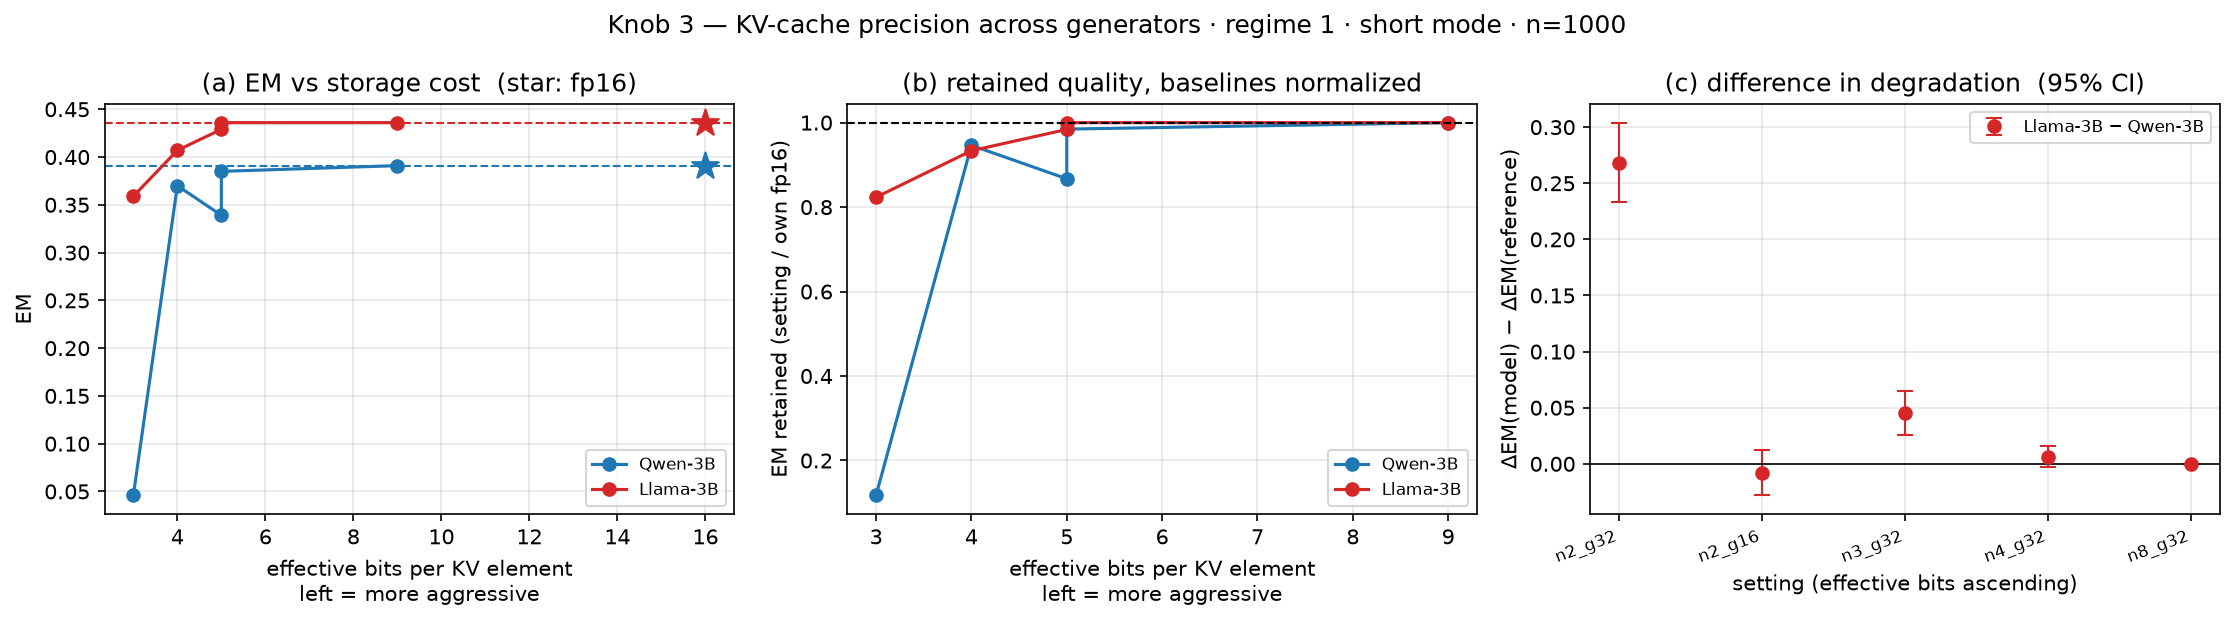
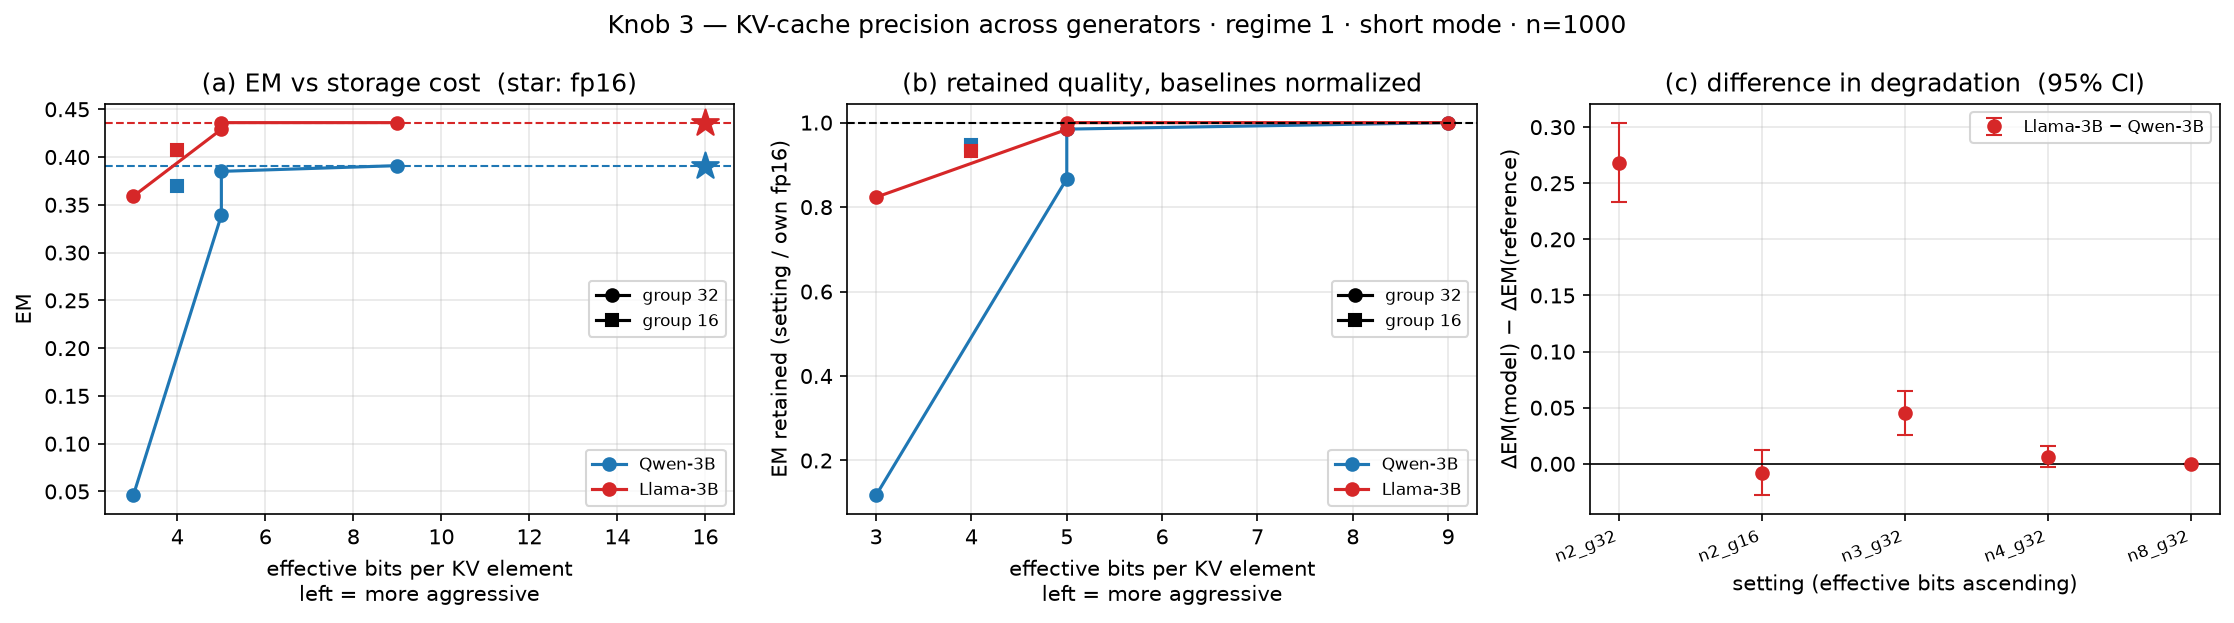
Updated plots for llama knob 3 and 4

diff --git a/scripts/plot_cross_model_gen.py b/scripts/plot_cross_model_gen.py
@@ -118,7 +118,10 @@ def describe(knob, setting, spec3):
                 "compression": float(r["compression"]), "label": kv_label(setting)}
     if knob == 4:
         d = parse_evict(setting)
-        return None if d is None else {**d, "label": f"{d['policy_label']} r{d['keep_ratio']:.2f}"}
+        if d is None:
+            return None
+        variant = " (no RoPE shift)" if d["naive"] else ""
+        return {**d, "label": f"{d['policy_label']} r{d['keep_ratio']:.2f}{variant}"}
     d = parse_topk(setting)
     return None if d is None else {**d, "label": f"k={d['k']}"}
 
@@ -501,12 +504,22 @@ def fig_cross3(models, cross, path):
     fig, ax = plt.subplots(1, 3, figsize=(15, 4.2))
     for tag, m in models.items():
         col, t = COLOUR[tag], m["tables"][3]
-        t = t[t["setting"].isin(cross[f"{tag}_setting"])].sort_values("effective_bits")
+        t = t[t["setting"].isin(cross[f"{tag}_setting"])]
         b = m["stats"]["baseline"]["em"]
-        ax[0].plot(t["effective_bits"], t["em"], "-o", ms=6, color=col, label=SHORT[tag])
+        first = True
+        for g, d in sorted(t.groupby("q_group_size"), reverse=True):
+            # One line across group sizes crosses the G16 point between the G32
+            # chain's points and draws a dip that is an artefact of the x-tie
+            # (n3_g32 and n4_g32 both sit at 5.00 effective bits), not data.
+            d = d.sort_values(["effective_bits", "nbits"])
+            mk = "o" if int(g) == 32 else "s"
+            ax[0].plot(d["effective_bits"], d["em"], "-", marker=mk, ms=6, color=col,
+                       label=SHORT[tag] if first else None)
+            ax[1].plot(d["effective_bits"], d["em"] / b, "-", marker=mk, ms=6, color=col,
+                       label=SHORT[tag] if first else None)
+            first = False
         ax[0].axhline(b, ls="--", c=col, lw=1)
         ax[0].scatter([16], [b], marker="*", s=180, color=col, zorder=5)
-        ax[1].plot(t["effective_bits"], t["em"] / b, "-o", ms=6, color=col, label=SHORT[tag])
     ax[0].set_xlabel("effective bits per KV element\nleft = more aggressive")
     ax[0].set_ylabel("EM"); ax[0].set_title("(a) EM vs storage cost  (star: fp16)")
     ax[1].axhline(1.0, ls="--", c="k", lw=1)
@@ -514,7 +527,12 @@ def fig_cross3(models, cross, path):
     ax[1].set_ylabel("EM retained (setting / own fp16)")
     ax[1].set_title("(b) retained quality, baselines normalized")
     for a in ax[:2]:
-        a.grid(alpha=.3); a.legend(fontsize=8)
+        a.grid(alpha=.3)
+        models_leg = a.legend(fontsize=8, loc="lower right")
+        a.add_artist(models_leg)
+        a.legend(handles=[plt.Line2D([], [], color="k", marker=mk, ls="-", ms=6, label=lab)
+                          for lab, mk in (("group 32", "o"), ("group 16", "s"))],
+                 fontsize=8, loc="center right")
     _panel_dd(ax[2], cross, models, "setting (effective bits ascending)")
     fig.suptitle("Knob 3 — KV-cache precision across generators · regime 1 · short mode · n=1000")
     fig.tight_layout();
@@ -529,13 +547,17 @@ def fig_cross4(models, cross, path):
         t = t[t["setting"].isin(cross[f"{tag}_setting"])]
         ls = "-" if tag == REF else "--"
         b = m["stats"].get("evict_none_b1", m["stats"]["baseline"])["em"]
+        fill = "full" if tag == REF else "none"
         for pol, (lab, colour, mk) in POLICY.items():
             d = t[t["policy"] == pol].sort_values("keep_ratio")
             if d.empty:
                 continue
-            ax[0].plot(d["keep_ratio"], d["em"], ls, marker=mk, ms=6, color=colour)
-            ax[1].plot(d["keep_ratio"], d["em"] / b, ls, marker=mk, ms=6, color=colour)
-        ax[0].plot([], [], ls, color="k", label=SHORT[tag])
+            ax[0].plot(d["keep_ratio"], d["em"], ls, marker=mk, ms=7, color=colour,
+                       fillstyle=fill, mew=1.4)
+            ax[1].plot(d["keep_ratio"], d["em"] / b, ls, marker=mk, ms=7, color=colour,
+                       fillstyle=fill, mew=1.4)
+        ax[0].plot([], [], ls, color="k", marker="o", fillstyle=fill, mew=1.4,
+                   label=f"{SHORT[tag]} ({'filled' if tag == REF else 'hollow'})")
         ax[0].axhline(b, ls=":", c="k", lw=.8)
     for pol, (lab, colour, mk) in POLICY.items():
         ax[0].plot([], [], "-", marker=mk, color=colour, label=lab)
@@ -615,7 +637,8 @@ def model_md(knob, m):
     cols, head = COLS[knob]
     rows = []
     for _, r in m["tables"][knob].iterrows():
-        rows.append([FMT[c].format(r[c]) if c in FMT else r[c] for c in cols])
+        rows.append(["—" if pd.isna(r[c]) else (FMT[c].format(r[c]) if c in FMT else r[c])
+                     for c in cols])
     return _md(rows, head)
 
 
